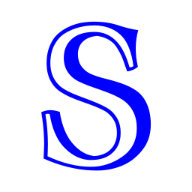
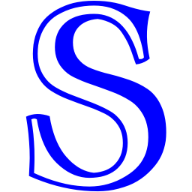
Saved

Changed region(s): [[0.125, 0.0, 0.875, 1.0]]

diff --git a/index.html b/index.html
@@ -9,12 +9,13 @@
     <link rel="stylesheet" href="https://cdn.rtlcss.com/bootstrap/v4.5.3/css/bootstrap.min.css">
     <script src="https://code.jquery.com/jquery-3.5.1.slim.min.js"></script>
     <script src="https://cdn.rtlcss.com/bootstrap/v4.5.3/js/bootstrap.bundle.min.js"></script>
+    <link rel="shortcut icon" href="favicon.ico" type="image/x-icon">
 </head>
 
 <body data-spy="scroll" data-target=".navbar" data-offset="50" >
     <nav class="navbar navbar-expand-md bg-dark navbar-dark sticky-top">
         <!-- Brand -->
-        <a class="navbar-brand" href="#section0">علی سینا</a>
+        <a class="navbar-brand" href="#section0"> <img width="30px" src="icon-192x192.png" alt="S"> علی سینا</a>
 
         <!-- Toggler/collapsibe Button -->
         <button class="navbar-toggler" type="button" data-toggle="collapse" data-target="#collapsibleNavbar">
